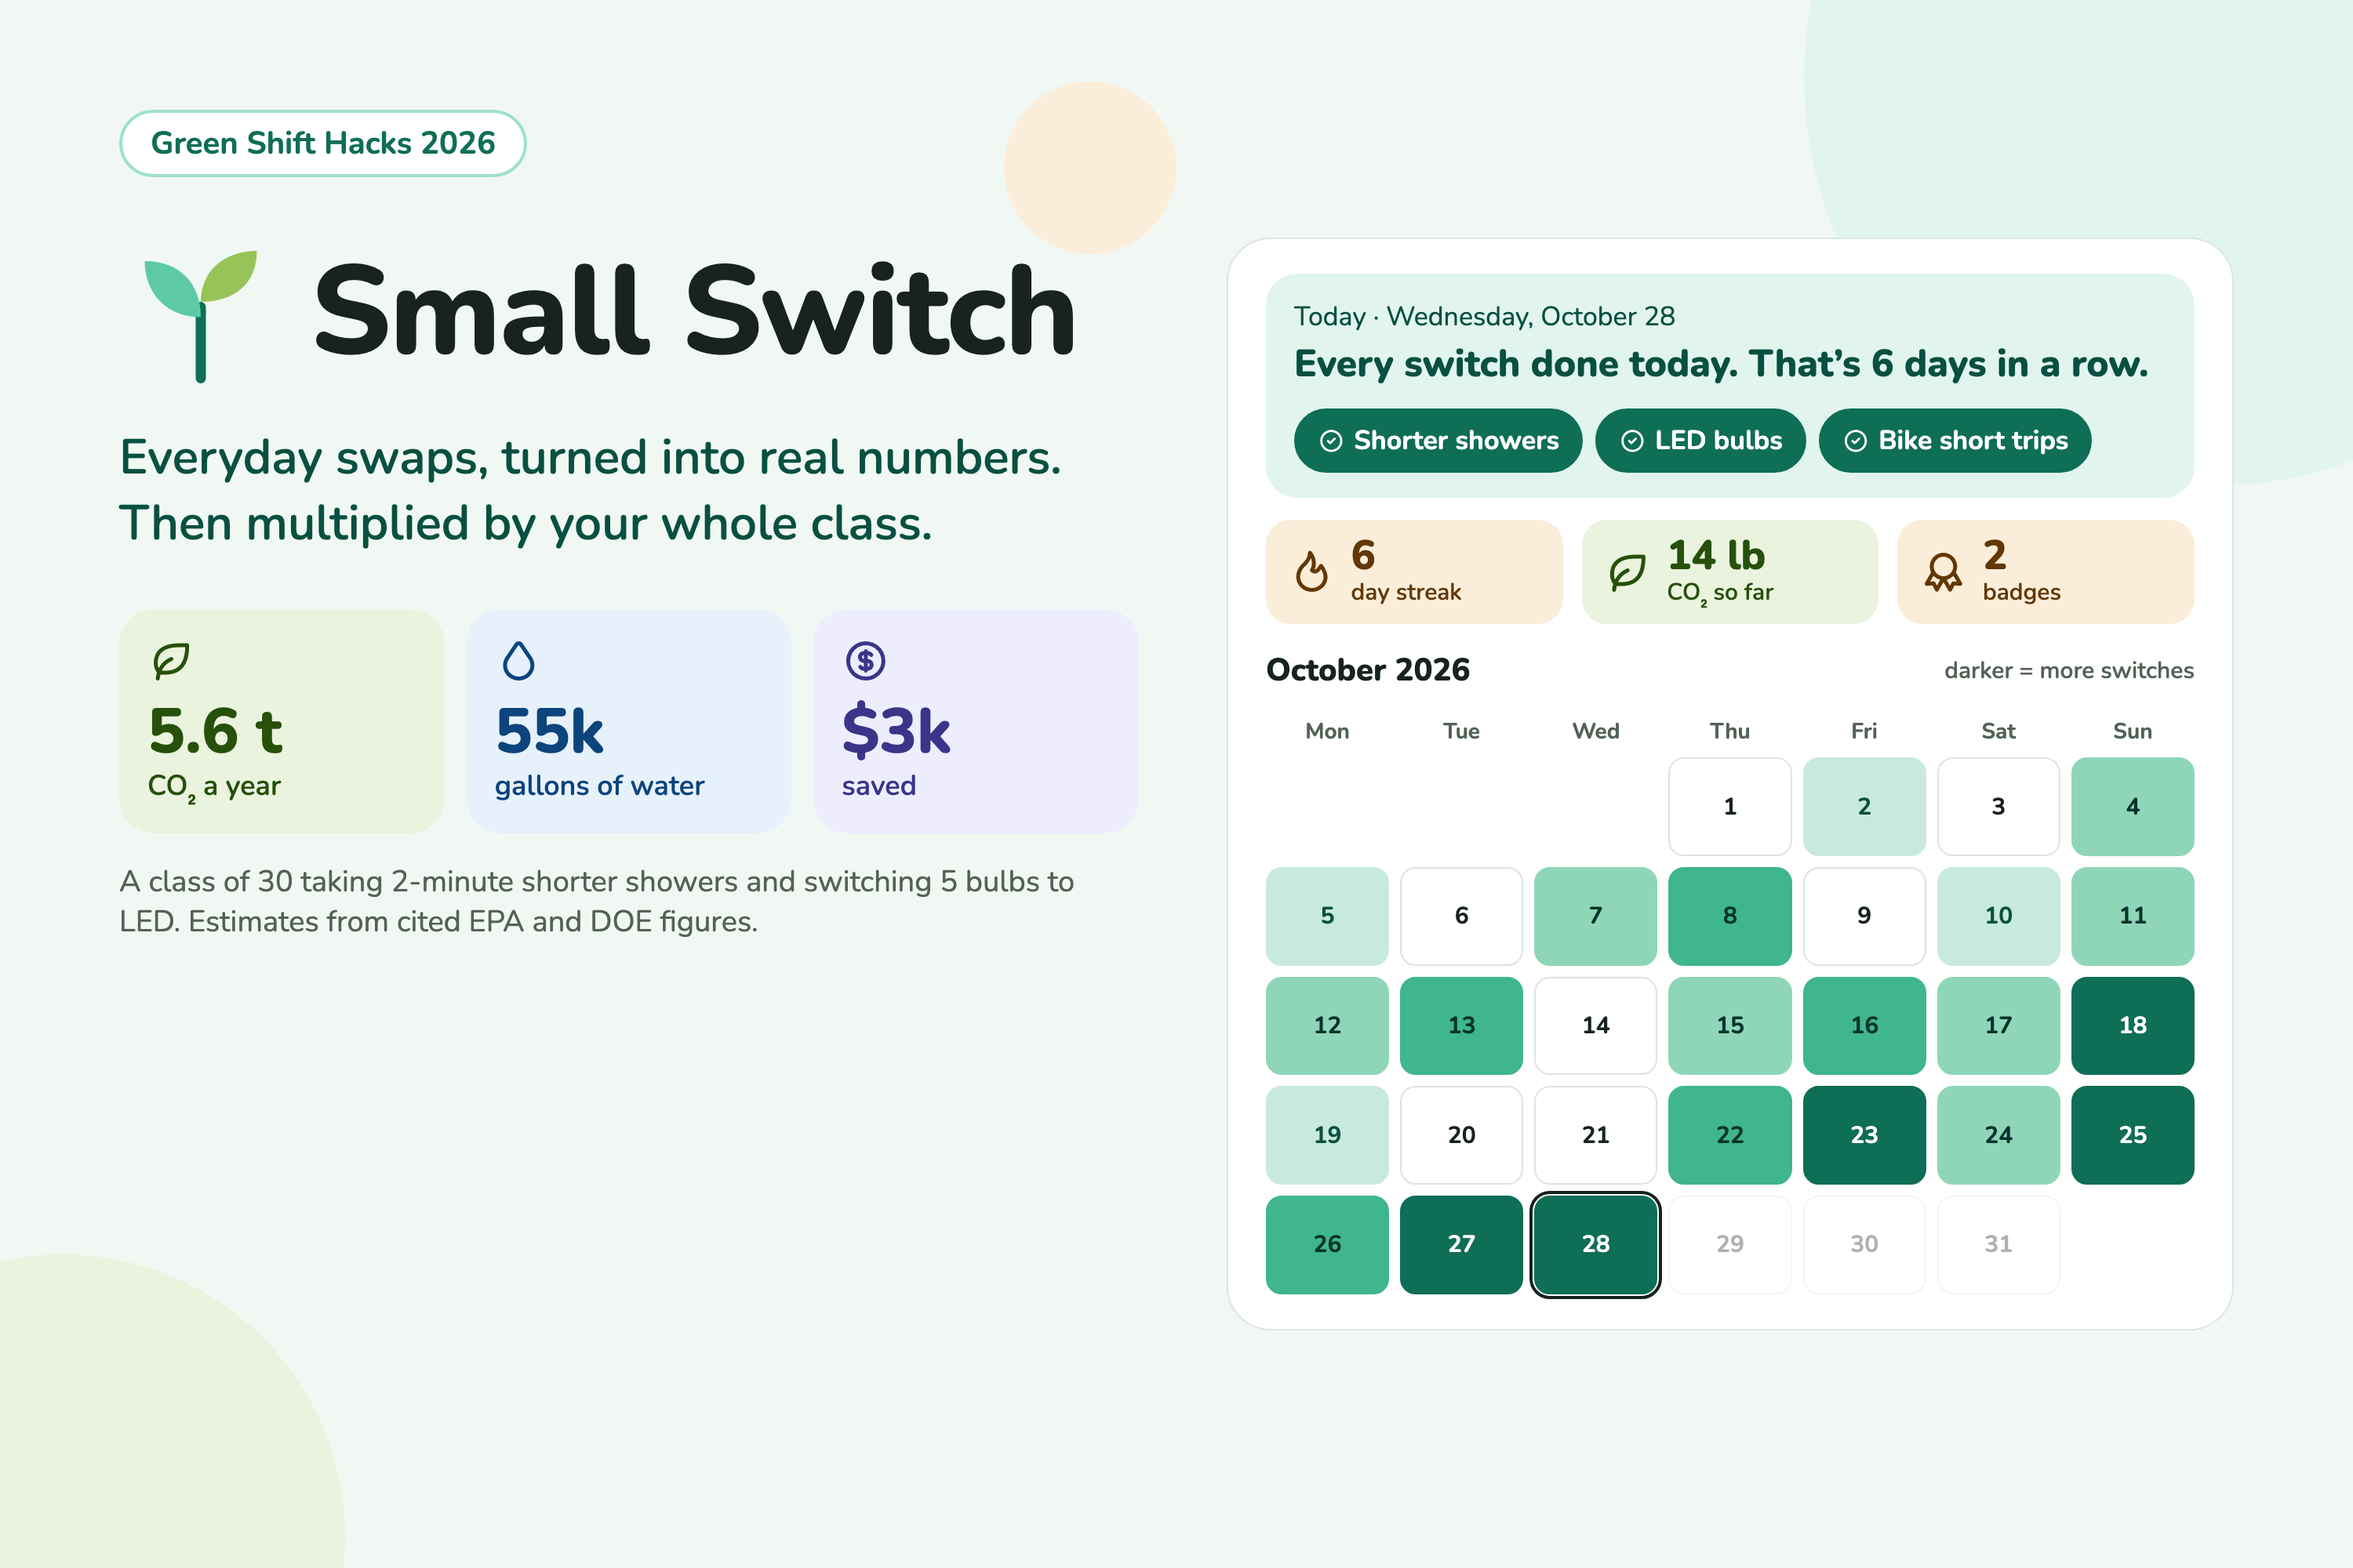
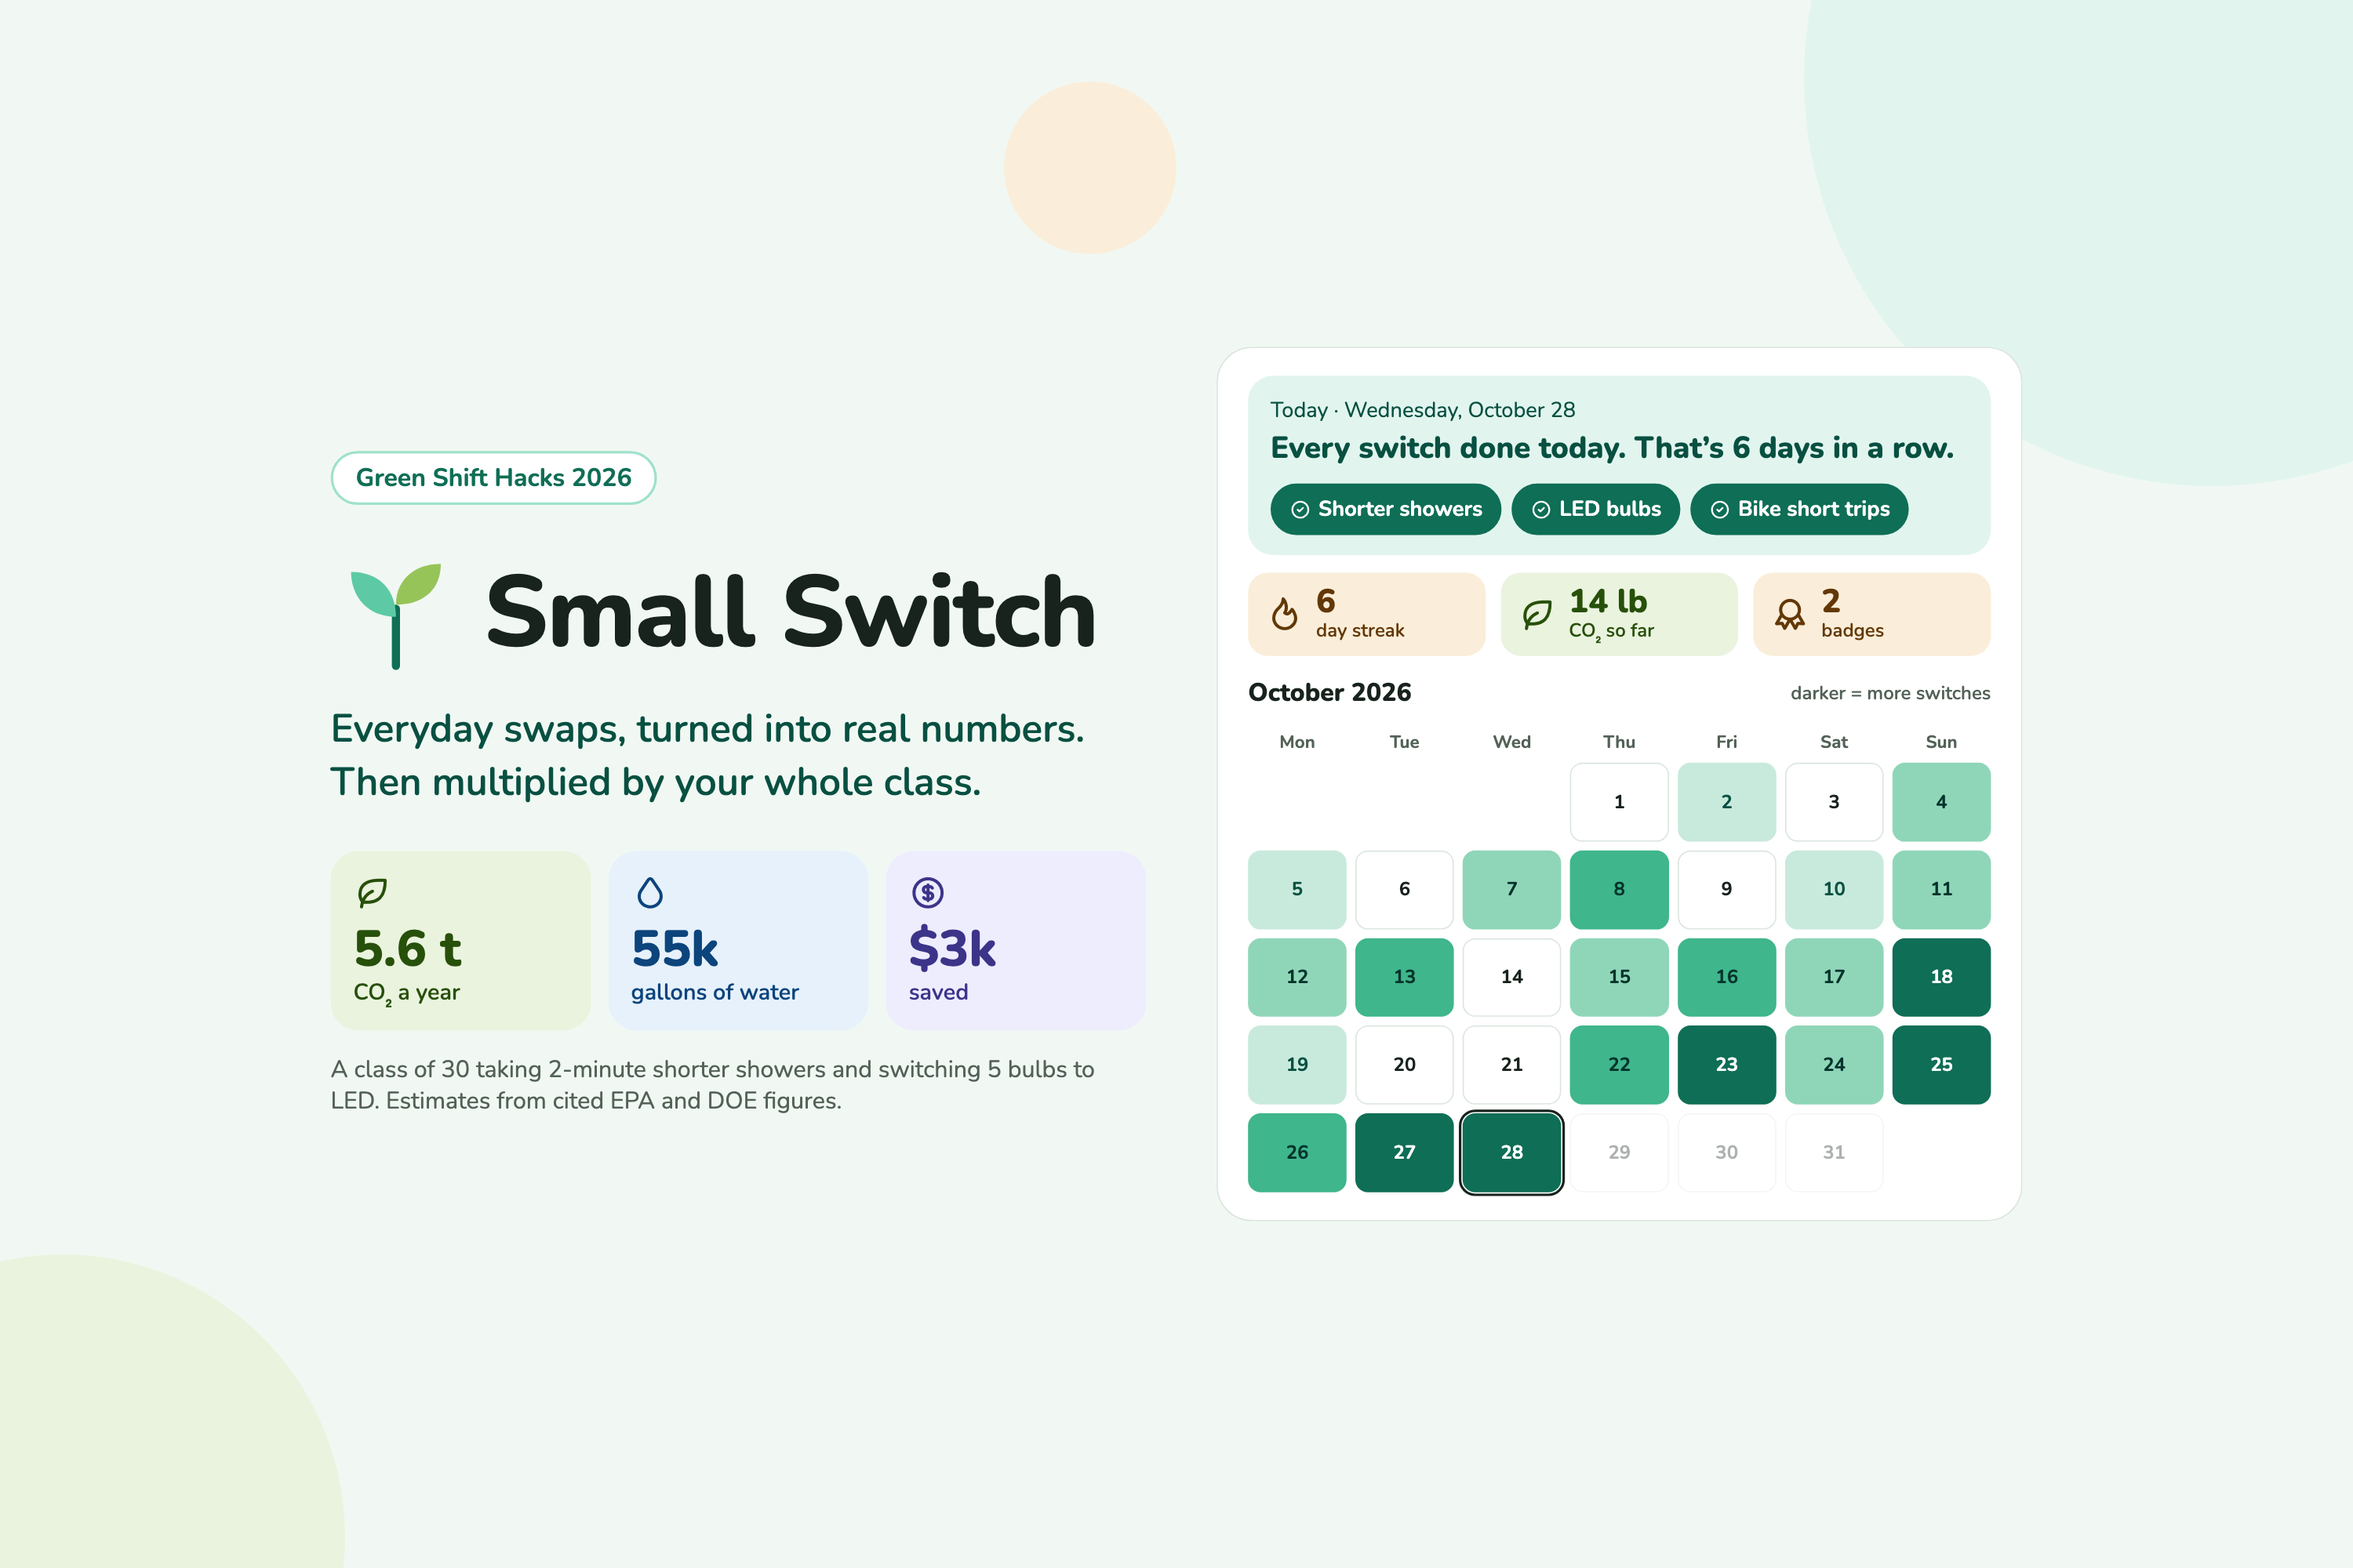
Keep cover content inside a safe zone so Devpost crops don't cut it off

diff --git a/media/cover.html b/media/cover.html
@@ -9,7 +9,7 @@
   * { box-sizing: border-box; margin: 0; }
   body { width: 1500px; height: 1000px; overflow: hidden; font-family: 'Nunito', sans-serif; color: #17231c; background: #f1f8f3; position: relative; }
   .blob { position: absolute; border-radius: 50%; }
-  .wrap { position: relative; display: grid; grid-template-columns: 650px 1fr; gap: 56px; padding: 70px 76px; height: 100%; }
+  .wrap { position: relative; display: grid; grid-template-columns: 650px 1fr; gap: 56px; align-items: center; padding: 70px 76px; height: 100%; transform: scale(0.8); transform-origin: center; }
   .event { display: inline-block; background: #fff; color: #0f6e56; border: 2px solid #9fe1cb; border-radius: 999px; padding: 6px 18px; font-weight: 700; font-size: 20px; }
   .brand { display: flex; align-items: center; gap: 18px; margin: 34px 0 20px; }
   h1 { font-size: 80px; line-height: 1; font-weight: 800; letter-spacing: -1px; }
